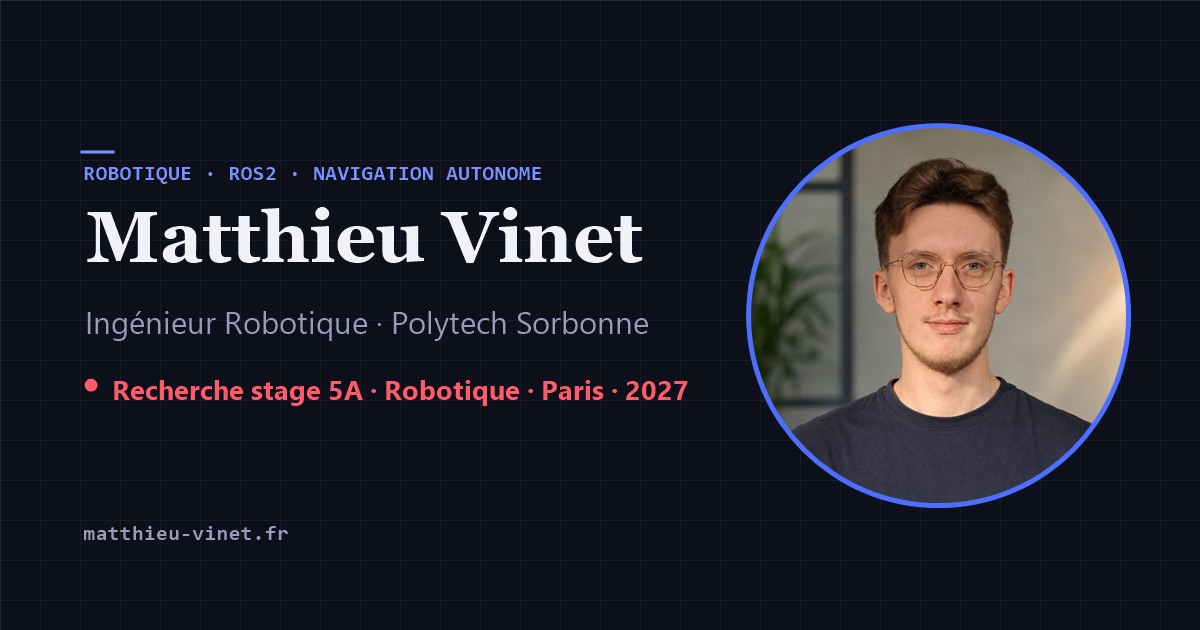
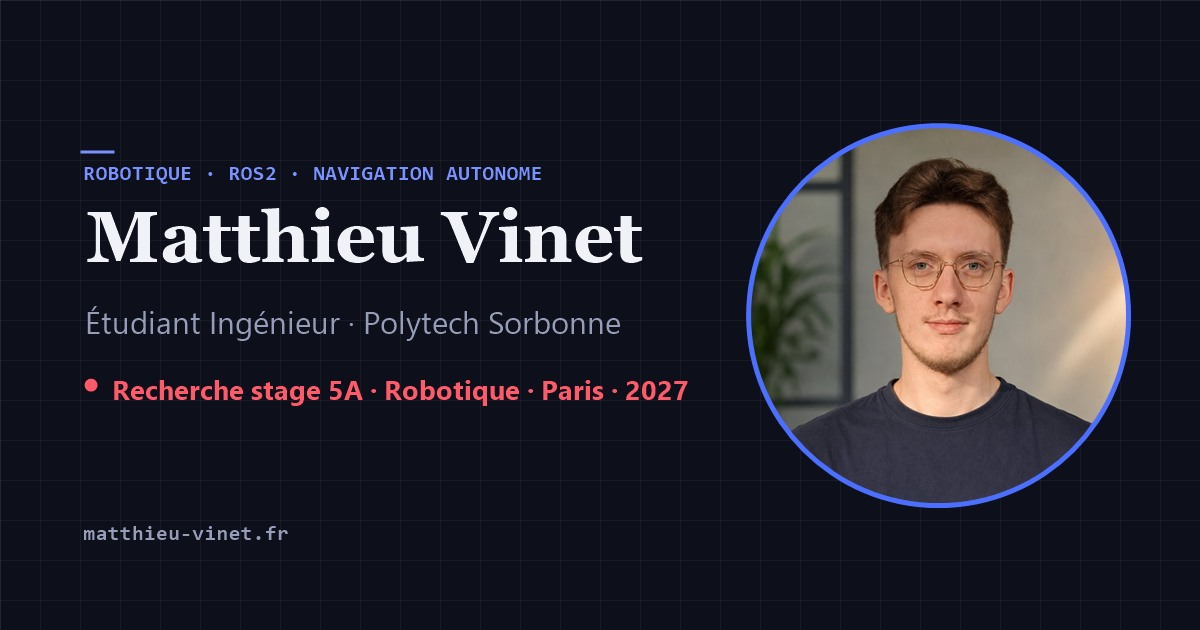
Titre : « Étudiant Ingénieur en Robotique » (au lieu d'« Ingénieur Robotique »)
- Hero, carte profil, footer, title, balises OG/Twitter, alt photo
- og-image régénérée avec le sous-titre « Étudiant Ingénieur »
- Le poste réel « Stagiaire Ingénieur Robotique » (Botshare) est conservé

Changed region(s): [[0.0617, 0.4825, 0.555, 0.5429]]

diff --git a/index.html b/index.html
@@ -5,7 +5,7 @@
   <meta name="viewport" content="width=device-width, initial-scale=1.0"/>
 
   <!-- ── SEO ── -->
-  <title>Matthieu Vinet — Ingénieur Robotique | ROS2 · Navigation autonome</title>
+  <title>Matthieu Vinet — Étudiant Ingénieur en Robotique | ROS2 · Navigation autonome</title>
   <meta name="description" content="Étudiant ingénieur en Robotique à Polytech Sorbonne, en stage chez Botshare.ai (Berlin). Projets ROS2, navigation autonome, SLAM, vision et systèmes embarqués. Recherche stage 5A robotique — Paris, 2027."/>
   <meta name="author" content="Matthieu Vinet"/>
   <meta name="theme-color" content="#1a2fff"/>
@@ -14,7 +14,7 @@
   <!-- ── Open Graph / partage ── -->
   <meta property="og:type" content="website"/>
   <meta property="og:url" content="https://matthieu-vinet.fr/"/>
-  <meta property="og:title" content="Matthieu Vinet — Ingénieur Robotique"/>
+  <meta property="og:title" content="Matthieu Vinet — Étudiant Ingénieur en Robotique"/>
   <meta property="og:description" content="Robotique, navigation autonome (ROS2 · SLAM · GPS RTK), vision et systèmes embarqués. En stage chez Botshare.ai (Berlin). Recherche stage 5A — Paris, 2027."/>
   <meta property="og:image" content="https://matthieu-vinet.fr/og-image.jpg"/>
   <meta property="og:image:width" content="1200"/>
@@ -22,7 +22,7 @@
   <meta property="og:locale" content="fr_FR"/>
   <meta property="og:locale:alternate" content="en_US"/>
   <meta name="twitter:card" content="summary_large_image"/>
-  <meta name="twitter:title" content="Matthieu Vinet — Ingénieur Robotique"/>
+  <meta name="twitter:title" content="Matthieu Vinet — Étudiant Ingénieur en Robotique"/>
   <meta name="twitter:description" content="Robotique, navigation autonome (ROS2 · SLAM · GPS RTK), vision et systèmes embarqués. Recherche stage 5A — Paris, 2027."/>
   <meta name="twitter:image" content="https://matthieu-vinet.fr/og-image.jpg"/>
 
@@ -58,8 +58,8 @@
       <h1>
         <span class="h1-name">Matthieu<br>Vinet</span>
         <span class="h1-role">
-          <span class="fr">Ingénieur Robotique</span>
-          <span class="en">Robotics Engineer</span>
+          <span class="fr">Étudiant Ingénieur en Robotique</span>
+          <span class="en">Robotics Engineering Student</span>
         </span>
       </h1>
       <p class="hero-p">
@@ -85,9 +85,9 @@
     <div class="hero-card">
       <div class="card-stripe"></div>
       <div class="card-body">
-        <div class="card-photo"><img src="images/profil.jpg" alt="Matthieu Vinet — Ingénieur Robotique" onerror="this.closest('.card-photo').style.display='none'"/></div>
+        <div class="card-photo"><img src="images/profil.jpg" alt="Matthieu Vinet — Étudiant Ingénieur en Robotique" onerror="this.closest('.card-photo').style.display='none'"/></div>
         <div class="card-name">Matthieu Vinet</div>
-        <div class="card-sub"><span class="fr">Ingénieur Robotique - Polytech Sorbonne</span><span class="en">Robotics Engineer - Polytech Sorbonne</span></div>
+        <div class="card-sub"><span class="fr">Étudiant Ingénieur en Robotique - Polytech Sorbonne</span><span class="en">Robotics Engineering Student - Polytech Sorbonne</span></div>
         <div class="card-status">
           <span class="fr">Recherche stage 5A — Robotique · Paris · 2027</span>
           <span class="en">Open to internship — Robotics · Paris · 2027</span>
@@ -327,7 +327,7 @@
     </div>
   </section>
 
-  <footer><span class="fr">© 2026 Matthieu Vinet — Ingénieur Robotique</span><span class="en">© 2026 Matthieu Vinet — Robotics Engineer</span></footer>
+  <footer><span class="fr">© 2026 Matthieu Vinet — Étudiant Ingénieur en Robotique</span><span class="en">© 2026 Matthieu Vinet — Robotics Engineering Student</span></footer>
 
 </div>
 
